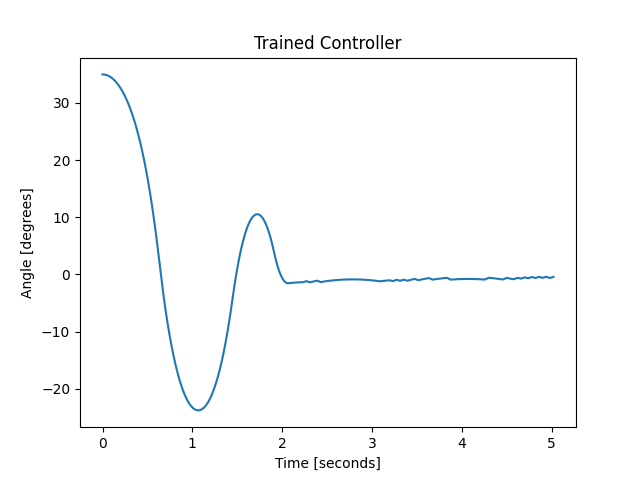
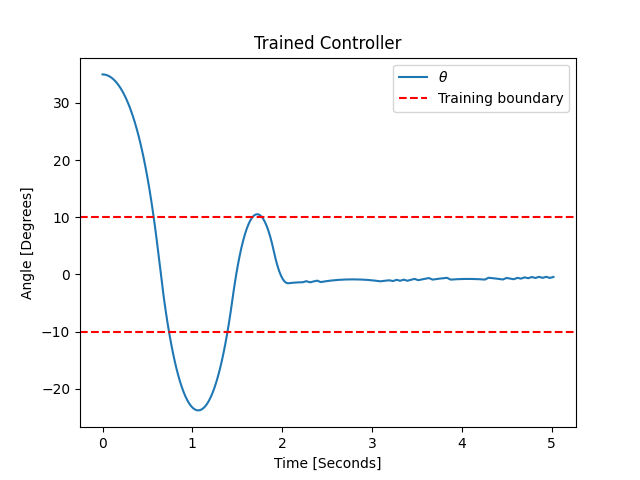
Finalized Report

diff --git a/report/final/final.tex b/report/final/final.tex
@@ -43,6 +43,7 @@
 \author[cem]{Cem Alpt\"urk}
 \author[pukashawar]{Pukashawar Pannu}
 
+
 \email[cem]{ce5368al-s@student.lu.se}
 \email[pukashawar]{pu6218pa-s@student.lu.se}
 
@@ -52,13 +53,12 @@
     One such way is by reinforcement learning.
     The approach in this project uses a model free controller trained with Deep Q-learning to control the double pendulum.
     Benefits of Deep Q-learning over regular Q-learning is that the controller can be used for situations that are not presented during training.
-    This has been confirmed in the results for the single pendulum model, an easier problem to control that was used to confirm the implementation of the learning algorithm.
+    This has been confirmed in the results.
+  	An easier problem to control, the single pendulum problem, was used to confirm the implementation of the learning algorithm.
     Balancing the double pendulum is a more difficult problem due to its chaotic nature and the controller being limited to a single degree of freedom.
-%    The double pendulum is more difficult with its chaotic nature and the limitation that the cart with a single degree of freedom is trying to control multiple states.
-    Results show that the double pendulum can be balanced for up-to three seconds with a network of $10$ layers and $30$ nodes in each layer, while the uncontrolled system falls over in $0.5$ seconds.
-    The agent was trained for a limited number of episodes limiting the amount of experience and knowledge it could gather about the problem.
-    We believe that by tuning hyperparameters, network size and training one could train an agent to balance the double pendulum for far longer using Deep Q-Learning.
-    % The abstract should be a 200--250 word compact description of your project. What was the objective? Which methods did you use? What was the (main) result?
+Results show that the double pendulum can be balanced indefinitely for certain initial conditions.
+The agent was trained for a limited number of episodes limiting the amount of experience and knowledge it could gather about the problem.
+We believe that by tuning hyperparameters, network size and training one could train an agent to balance the double pendulum for broader initial conditions and more optimally.
 \end{abstract}
 
 \end{frontmatter}
@@ -436,7 +436,7 @@ The weights of the network were initialized with uniform HE-initialization, whic
     \caption{Network parameters for the single pendulum Q-network.}
     \label{table:params_q_network}
 \end{table}
-
+Although the single pendulum has $4$ states, the position of the cart, $x$, was not used, to simplify training.
 Table \ref{table:params_pendulum} shows the training parameters for the single pendulum problem.
 \begin{table}[H]
 \centering
@@ -458,13 +458,13 @@ Table \ref{table:params_pendulum} shows the training parameters for the single p
 Figure \ref{fig:single_pendulum_eval} shows the agent performance over episodes.
 The agent starts to learn how to move the cart to increase the score after a few episodes.
 Eventually the reward gain stops increasing.
-The system was simulated with the maximum $200$ steps for each episode, capping the max possible reward to $200$.
+The system was simulated with the maximum $200$ steps for each episode, capping the max possible score to $200$.
 However, $200$ is only possible if the initial condition starts in the equilibrium point.
 The initial condition for each episode is randomized preventing the system from reaching $200$ score in the evaluation.
 
 \begin{figure}[htp]
 	\centering
-	\includegraphics[width=0.9\columnwidth]{figures/SinglePendulum_evaluation_time.png}
+	\includegraphics[width=0.9\columnwidth]{figures/SinglePendulum_evaluation_score.png}
 	\caption{Evaluated controller score for every $10$ episodes. The evaluation is measured as the average score of $10$ full controlled simulations. Maximum number of steps for each evaluation iteration was $200$, capping the maximum possible reward to $200$.}
 	\label{fig:single_pendulum_eval}
 \end{figure}
@@ -481,18 +481,18 @@ The initial condition for each episode is randomized preventing the system from 
 %	\caption{Pendulum angle over time for training episode $170$.}
 %\end{figure}
 
-The trained controller was used to control the single pendulum for initial conditions outside the trained domain, and the controller managed to bring back the pendulum to the known domain and balance it.
+The trained agent was used to control the single pendulum for initial conditions outside the trained domain, and the controller managed to bring back the pendulum to the known domain and balance it.
 This can be seen in Figure \ref{fig:single_pendulum_outside_training_domain}.
 Results indicate that the network has managed to generalize the problem.
 This would not be possible with a regular Q-table approach since the agent has never seen the states outside the training domain and would end up performing random actions.
-Although the agent was able to bring the pendulum back to its equilibrium point, it later starts to move to the right with a small angle.
-The reason for this might be that the cart ended up far away from the origin, which confused the agent.
-This can be resolved by training the agent for more episodes.
+%Although the agent was able to bring the pendulum back to its equilibrium point, it later starts to move to the right with a small angle.
+%The reason for this might be that the cart ended up far away from the origin, which confused the agent.
+%This can be resolved by training the agent for more episodes.
 
 \begin{figure}[htp]
 	\centering
 	\includegraphics[width=0.9\columnwidth]{figures/Pendulum_angle_35.png}
-	\caption{Changes in pendulum angle $\theta$ over time for controlled simulation of single pendulum on cart problem. The initial condition was $\theta = 20$ degrees.}
+	\caption{Changes in pendulum angle $\theta$ over time for controlled simulation of single pendulum on cart problem. The initial condition was $\theta = 35$ degrees.}
 	\label{fig:single_pendulum_outside_training_domain}
 \end{figure}
 Figure \ref{fig:pendulum_gamma_01} and \ref{fig:pendulum_gamma_09} shows the average Q-values during training for $\gamma=0.1$ and $\gamma=0.9$ respectively. It can be seen that the Q-values for a low $\gamma$ value converges much faster while for the larger $\gamma$ value, convergence has not happened at the end of the training.
@@ -509,15 +509,15 @@ Figure \ref{fig:pendulum_gamma_01} and \ref{fig:pendulum_gamma_09} shows the ave
 	\label{fig:pendulum_gamma_09}
 \end{figure}
 
-Figure \ref{fig:single_pendulum_eval_01} shows the training result for $\gamma=0.1$, while the other hyperparameters remained the same. It can be seen that the score converges faster since the Q-values converge faster. This is due to the algorithm only taking the instant and near future rewards in to consideration, thus being short sighted. However the overall performance showed that, with $\gamma=0.1$ the agent was unable to generalize and even had issues with initial conditions that were close to $\theta_{max}$. This can also be seen in the dip during the end of the training in Figure \ref{fig:single_pendulum_eval_01}.
+Figure \ref{fig:single_pendulum_eval_01} shows the training result for $\gamma=0.1$, while the other hyperparameters remained the same. It can be seen that the score converges slightly faster since the Q-values converge faster. This is due to the algorithm only taking the instant and near future rewards in to consideration, thus being short sighted. However the overall performance showed that, with $\gamma=0.1$ the agent was unable to generalize and even had issues with initial conditions that were close to $\theta_{max}$. This can also be seen in the dip during training in Figure \ref{fig:single_pendulum_eval_01}.
 \begin{figure}[htp]
 	\centering
-	\includegraphics[width=0.9\columnwidth]{figures/SinglePendulum_gamma_01_evaluation_time.png}
-	\caption{Evaluation of the controller with the same conditions in Table \ref{table:params_pendulum}, except that $\gamma=0.1$. The drop at the end may be caused due to outlier initial conditions during evaluation.}
+	\includegraphics[width=0.9\columnwidth]{figures/SinglePendulum_gamma_01_evaluation_score.png}
+	\caption{Evaluation of the controller with the same conditions in Table \ref{table:params_pendulum}, except that $\gamma=0.1$.}
 	\label{fig:single_pendulum_eval_01}
 \end{figure}
 
-Figure \ref{fig:pendulum_force} shows the distribution of actions taken for an agent that was trained with a larger action space. This plot shows that most of these actions were rarely used except for $\pm 10$. When the agent was trained for the same number of episodes, the overall performance was worse than in Figure \ref{fig:single_pendulum_eval}. This showed that a larger action space requires more training in order to get the same performance. In this case training time can be reduced by only using the actions that were most used by the agent.
+Figure \ref{fig:pendulum_force} shows the distribution of actions taken for an agent that was trained with a larger action space. This plot shows that most of these actions were rarely used except for $\pm 10$. When an agent was trained with the larger action space for the same number of episodes, the overall performance was worse than in Figure \ref{fig:single_pendulum_eval}. This showed that a larger action space requires more training in order to get the same performance. In this case training time can be reduced by only using the actions that were most used by the agent.
 \begin{figure}[htp]
 	\centering
 	\includegraphics[width=0.9\columnwidth]{figures/Pendulum_force.png}
@@ -539,26 +539,37 @@ The termination condition is given by Equation \eqref{eqn:termination_double_pen
 	\label{eqn:termination_double_pendulum}
 \end{equation}
 where $\theta_1$ is the angle of the inner pendulum and $\theta_2$ is the angle of the outer pendulum.
-$\theta_{max} = 5$ degrees was chosen in order to train the agent in a strict state space close to the equilibrium point.
+$\theta_{max} = 15$ degrees was chosen in order to train the agent in a strict state space close to the equilibrium point.
 Due to the limited degrees of freedom of the system, higher values of $\theta_{max}$ can allow the pendulums to move to positions where they can not be recovered from.
 Reward is given by Equation \eqref{eqn:reward_double_pendulum},
-\begin{equation}
-	R(s) = 1 - \left( \theta_1^2 + \theta_2^2 \right) - \left(\dot{\theta_1}^2 + \dot{\theta_2}^2 \right)
+\begin{flalign}
+	r(s) &= 1 - \left( \frac{|\theta_1|}{\theta_{max}} + \frac{|\theta_2|}{\theta_{max}}\right) - \left(\dot{\theta_1}^2 + \dot{\theta_2}^2 \right) \nonumber \\
+	R(s) &=
+	\begin{cases}
+		-10 & \text{ if \eqref{eqn:termination_double_pendulum}} \\
+		  \max(0,r(s)) & \text{ otherwise}
+	\end{cases} 
 	\label{eqn:reward_double_pendulum}
-\end{equation}
-where the agent receives a bonus of $1$ for being alive, a penalty for being further away from the equilibrium point given by $\theta_1^2 + \theta_2^2$, and a penalty for the velocity of the pendulums given by $\dot{\theta_1}^2 + \dot{\theta_2}^2$.
+\end{flalign}
+where the agent receives a bonus of $1$ for being alive, a penalty for being further away from the equilibrium point given by $\left( \frac{|\theta_1|}{\theta_{max}} + \frac{|\theta_2|}{\theta_{max}}\right)$, and a penalty for the velocity of the pendulums given by $\dot{\theta_1}^2 + \dot{\theta_2}^2$.
+A penalty of $-10$ is given to the agent if it crosses the termination boundary.
+This penalty is designed to discourage the agent from moving outside the boundary.
 The total score received in an episode depends on the step size of the simulation and the duration that the agent is able to survive.
 
 Table \ref{table:double_params_q_network} shows the neural network setup for the double pendulum problem.
 The weights of the network were initialized with uniform HE-initialization similar to the single pendulum problem.
+The position of the cart has not been used as input to simplify training.
 \begin{table}[H]
     \centering
     \begin{tabular}{|
     >{\columncolor[HTML]{CBCEFB}}c |c|c|}
     \hline
     \cellcolor[HTML]{9AFF99}\textbf{Layer} & \cellcolor[HTML]{9AFF99}\textbf{Number of Neurons} & \cellcolor[HTML]{9AFF99}\textbf{Activation} \\ \hline
-    \textbf{Input}                         & 6                                                  & -                                           \\ \hline
-    \textbf{Hidden 1-10}                      & 30                                               & ReLU                                        \\ \hline
+    \textbf{Input}                         & 5                                                  & -                                           \\ \hline
+    \textbf{Hidden 1-5}                      & $[30,20,40,30,30]$                                               & ReLU                                        \\ \hline
+    \textbf{Hidden 6-10}			&				$[40,30,60,60,100]$												& ReLU									\\ \hline
+    \textbf{Hidden 11-15}                      & $[40,30,70,70,70]$                                               & ReLU                                        \\ \hline
+    \textbf{Hidden 16-20}			&				$[30,30,30,30,30]$												& ReLU									\\ \hline
     \textbf{Output}                        & 3                                                  & Linear                                      \\ \hline
     \end{tabular}
     \caption{Network parameters for the double pendulum Q-network.}
@@ -571,10 +582,10 @@ Table \ref{table:params_double_pendulum} shows the training parameters for the d
 \begin{tabular}{|
 >{\columncolor[HTML]{FFCE93}}c |c|}
 \hline
-\textbf{Max Angle} & 5 \\ \hline
+\textbf{Max Angle} & 15 \\ \hline
 \textbf{Step Size} & 0.02 \\ \hline
-\textbf{Action Space} & [-1,0,1] \\ \hline
-\textbf{Learning Rate} & 0.0001 \\ \hline
+\textbf{Action Space} & $[\pm 40, \pm 10, \pm 5, \pm 1, 0]$ \\ \hline
+\textbf{Learning Rate} & 0.00005 \\ \hline
 \textbf{Memory} & 2000 \\ \hline
 \textbf{Batch Size} & 32 \\ \hline
 \textbf{Discount} & 0.9 \\ \hline
@@ -584,23 +595,33 @@ Table \ref{table:params_double_pendulum} shows the training parameters for the d
 \end{table}
 %Although this method works for the single pendulum case, since the double pendulum is a highly chaotic system, the algorithm is having a difficult time training the controller as seen in Figure \ref{fig:double_pendulum_score}.
 %We believe that the reason for this could be that the hyper parameters are not optimal or we are not giving the algorithm enough time to train even though the training takes several hours.
-Figure \ref{fig:double_pendulum_score} shows the agents score over $500$ episodes. 
-During training the agent was able to balance the pendulum up to three seconds.
+Figure \ref{fig:double_pendulum_score} shows the agents training performance over $2000+$ episodes. 
+During training the agent was able to balance the pendulum for up to ten seconds.
+Episodes were terminated if the agent lasted for ten seconds to speed up training, even though this terminates the episode, the agent is not given a penalty.
 A comparison between the agent's performance, baseline and a random controller is also illustrated in the figure.
-Although the trained agent cannot balance the pendulums for a long time, it performs much better than the others.
+The trained agent performs much better than the baseline and the random controller.
 \begin{figure}[H]
 	\centering
 	\includegraphics[width=0.9\columnwidth]{figures/Doublependulum_evaluation_time.png}
-	\caption{Evaluated controller score for every 10 episodes. The evaluation is measured as the average score of 10 full controlled simulations. The baseline is measured by evaluating 200 simulations without a controller which lasted on average for $0.5$ seconds. A controller that performs actions randomly achieves an average score of $32$, estimated the same way as the baseline.}
+	\caption{Evaluated controller score for every 10 episodes. The evaluation is measured as the average score of 10 full controlled simulations. The baseline is measured by evaluating 200 simulations without a controller which lasted on average for $0.35$ seconds. A controller that performs actions randomly survives an average time of $0.28$ seconds, estimated the same way as the baseline.}
 	\label{fig:double_pendulum_score}
 \end{figure}
-Figure \ref{fig:double_pendulum_q_values} shows the average Q-values of the network during training.
-It can be seen that the Q-values have converged and can be interpreted as the network having reached its limit and training being complete.
+Figure \ref{fig:double_pendulum_trained_angles} shows the change in $\theta_1$ and $\theta_2$ for a simulation with the trained controller where the initial conditions were outside the training boundary.
+This shows that the agent was able to generalize since it has never seen these states.
+\begin{figure}[h]
+	\centering
+	\includegraphics[width=0.9\columnwidth]{figures/DoublePendulum_trained_angle.png}
+	\caption{Change in pendulum angles controlled by trained agent for initial conditions set as $\theta_1=\theta_2=-20^{\circ}$.}
+	\label{fig:double_pendulum_trained_angles}
+\end{figure}
+
+Figure \ref{fig:double_pendulum_force_dist} shows the force distribution for initial conditions that were outside of the training region.
+The agent uses the larger forces initially to get the pendulums closer to the equilibrium and then starts using the smaller values to keep it there.
 \begin{figure}[htp]
 	\centering
-	\includegraphics[width=0.9\columnwidth]{figures/Q_values_double.png}
-	\caption{Q-values during training.}
-	\label{fig:double_pendulum_q_values}
+	\includegraphics[width=0.9\columnwidth]{figures/DoublePendulum_Force_Dist.png}
+	\caption{Force distribution for the trained agent controlling the pendulums with initial conditions of $\theta_1=\theta_2=-20^{\circ}$.}
+	\label{fig:double_pendulum_force_dist}
 \end{figure}
 
 \subsection{Training Time}
@@ -608,7 +629,7 @@ The training time of the agent heavily depends on the hyperparameters and the ov
 In the first few episodes, due to the agents lack of experience the episodes will terminate faster, thus resulting in shorter episodes.
 As the agent gains more experience, it learns to survive for longer, increasing the computation time for a single episode.
 Table \ref{table:def_params_time} and \ref{table:other_params_time} show the computation and simulation time differences for a change in the termination condition.
-\begin{table}[H]
+\begin{table}[htp]
 	\centering
 	\begin{tabular}{|c|c|c|}
 	\hline
@@ -619,11 +640,11 @@ Table \ref{table:def_params_time} and \ref{table:other_params_time} show the com
 	\rowcolor[HTML]{FFFFC7} 
 	\textbf{1} & 0.72 s & 0.56 s\\ \hline
 	\rowcolor[HTML]{FFFFC7} 
-	\vdots & \vdots & \vdots \\ \hline
+	%\vdots & \vdots & \vdots \\ \hline
 	\rowcolor[HTML]{FFFFC7} 
-	\textbf{50} & 24.73 s & 4 s \\ \hline
+	\textbf{50} & 20.73 s & 3.5 s \\ \hline
 	\rowcolor[HTML]{FFFFC7} 
-	\vdots & \vdots & \vdots \\ \hline
+	%\vdots & \vdots & \vdots \\ \hline
 	\rowcolor[HTML]{FFFFC7} 
 	\textbf{100} & 28.52 s & 4 s\\ \hline
 	\end{tabular}
@@ -631,9 +652,7 @@ Table \ref{table:def_params_time} and \ref{table:other_params_time} show the com
 	\label{table:def_params_time}
 \end{table}
 
-
-
-\begin{table}[H]
+\begin{table}[htp]
 	\centering
 	\begin{tabular}{|c|c|c|}
 	\hline
@@ -644,11 +663,11 @@ Table \ref{table:def_params_time} and \ref{table:other_params_time} show the com
 	\rowcolor[HTML]{FFFFC7} 
 	\textbf{1} & 0.76 s & 0.6 s \\ \hline
 	\rowcolor[HTML]{FFFFC7} 
-	\vdots & \vdots & \vdots \\ \hline
+	%\vdots & \vdots & \vdots \\ \hline
 	\rowcolor[HTML]{FFFFC7} 
 	\textbf{50} & 6.03 s & 0.86 s \\ \hline
 	\rowcolor[HTML]{FFFFC7} 
-	\vdots & \vdots & \vdots \\ \hline
+	%\vdots & \vdots & \vdots \\ \hline
 	\rowcolor[HTML]{FFFFC7} 
 	\textbf{100} & 26.77 s & 4 s\\ \hline
 	\end{tabular}
@@ -656,7 +675,7 @@ Table \ref{table:def_params_time} and \ref{table:other_params_time} show the com
 	\label{table:other_params_time}
 \end{table}
 
-\begin{table}[H]
+\begin{table}[htp]
 	\centering
 	\begin{tabular}{|c|c|c|}
 	\hline
@@ -667,13 +686,13 @@ Table \ref{table:def_params_time} and \ref{table:other_params_time} show the com
 	\rowcolor[HTML]{FFFFC7} 
 	\textbf{1} & 2.95 s & 0.8 s\\ \hline
 	\rowcolor[HTML]{FFFFC7} 
-	\vdots & \vdots & \vdots \\ \hline
+	%\vdots & \vdots & \vdots \\ \hline
 	\rowcolor[HTML]{FFFFC7} 
-	\textbf{300} & 17.38 s & 1.96 s \\ \hline
+	\textbf{300} & 36.74 s & 7.18 s \\ \hline
 	\rowcolor[HTML]{FFFFC7} 
-	\vdots & \vdots & \vdots \\ \hline
+	%\vdots & \vdots & \vdots \\ \hline
 	\rowcolor[HTML]{FFFFC7} 
-	\textbf{500} & 29.13 s & 2.62 s\\ \hline
+	\textbf{2000} & 60.24 s & 10 s\\ \hline
 	\end{tabular}
 	\caption{Computation and simulation times for episodes with hyperparameters specified in Table \ref{table:params_double_pendulum}.}
 	\label{table:def_params_time_double}
@@ -682,7 +701,7 @@ Table \ref{table:def_params_time} and \ref{table:other_params_time} show the com
 \section{Discussion}
 % Talk about the problem
 The double pendulum is a highly chaotic system and with the cart limited to a single degree of freedom it is difficult to control.
-In situations where the agent receives two states that are very close to each other, the applied action may result in very different outcomes which makes the learning of the expected reward for that action very difficult.
+In situations where the agent receives two states that are very close to each other, the applied action may result in very different outcomes which makes the learning of the expected reward for that action challenging.
 % add difference between wide and deep networks
 We have found that deeper networks perform better than wider ones for this problem.
 This may be due to wider networks having less non-linearity compared to deeper ones.
@@ -698,29 +717,31 @@ This is why we preferred to train the agent with a dynamic exploration rate, whe
 However, we still have a minimum $\epsilon$, to allow the agent to explore during the later episodes of training.
 This prevents the agent from overfitting to states close to the equilibrium point.
 For the same reason, we preferred to use a strict termination condition. 
-Since the agents purpose is to control the pendulums around the equilibrium, there is little to no advantage in allowing the pendulum to move too far from the equilibrium point.
+Since the agents purpose is to control the pendulums around the equilibrium, there is little to no advantage in allowing the pendulums to move too far from the equilibrium point.
 
 When we used a discount factor closer to $1$, we found that it takes longer for the Q-values to converge, and they converged to larger values, as seen in Figure \ref{fig:pendulum_gamma_09}.
 Although this specific problem does not have any delayed rewards, such as reaching a goal in a game, it made more sense to use a high discount factor $\gamma$, so that the agent can take into account the consequences of its actions, such as if an action makes the pendulum overshoot the equilibrium point or not.
-Our results indicated that using a higher $\gamma$ value helped the agent generalize much better and was more resilient to near edge starting conditions.
+Our results indicated that using a higher $\gamma$ value helped the agent generalize much better and was more resilient to initial conditions outside the training boundary.
 
 % Difficulties in training
 As seen in Table \ref{table:def_params_time_double} tuning hyperparameters is a difficult process. 
 Due to the time the training takes, evaluating the performance of a different set of hyperparameters is challenging.
-Since the training process highly depends on the hyperparameters, the time it takes for one episode can be vastly different for different hyperparameters.
+Since the training process highly depends on the hyperparameters, the time it takes for one episode to finish can be vastly different for different hyperparameters.
 Aside from the time it takes to get the results, evaluating the effect of the hyperparameters is not straight forward.
 Even when using the same set of hyperparameters, we can get different results.
 Trying to estimate the effect of a new hyperparameter is problematic.
 Due to these reasons, a trial and error approach was more effective.
-We believe that with the right hyperparameters, the double pendulum can be controlled for longer.
+We believe that with the right hyperparameters, the double pendulum can be controlled more optimally.
 
 The duration that the agent survives for an episode does not directly correlate with the agents performance.
-Different hyperparameters, reward functions and termination conditions affect the duration the agent is able to survive, which makes evaluating hyperparameters problematic.
+Different hyperparameters, reward functions and termination conditions affect the duration the agent is able to survive, which makes evaluating hyperparameters challenging.
 As seen in Table \ref{table:def_params_time} and \ref{table:other_params_time}, the agent was trained with a more flexible termination condition, which allowed it to survive longer in an episode, however it takes more episodes for the Q-values to converge since the state-action space is much larger than before which takes more training time.
-The simulation time for episode $50$ in Table \ref{table:def_params_time} cannot be directly compared with the corresponding value in Table \ref{table:other_params_time}.
+%The simulation time for episode $50$ in Table \ref{table:def_params_time} cannot be directly compared with the corresponding value in Table \ref{table:other_params_time}.
 
 
 Other model-free methods such as Linear Q-learning \cite{Linear_Q_Learning} and Double Deep Q-learning \cite{Deep_Double_Q_Learning} can be implemented and perhaps give similar or better results.
+Another interesting problem would be to train a swing-up controller.
+This can be achieved by modifying the reward function in a way that it encourages the agent to swing the pendulums up and balance them around the equilibrium.
 This can be considered for future work.
 
 %, but they did not achieve better performance than our Deep Q-learning \cite{Deep_Q_Learning_First} implementation.
